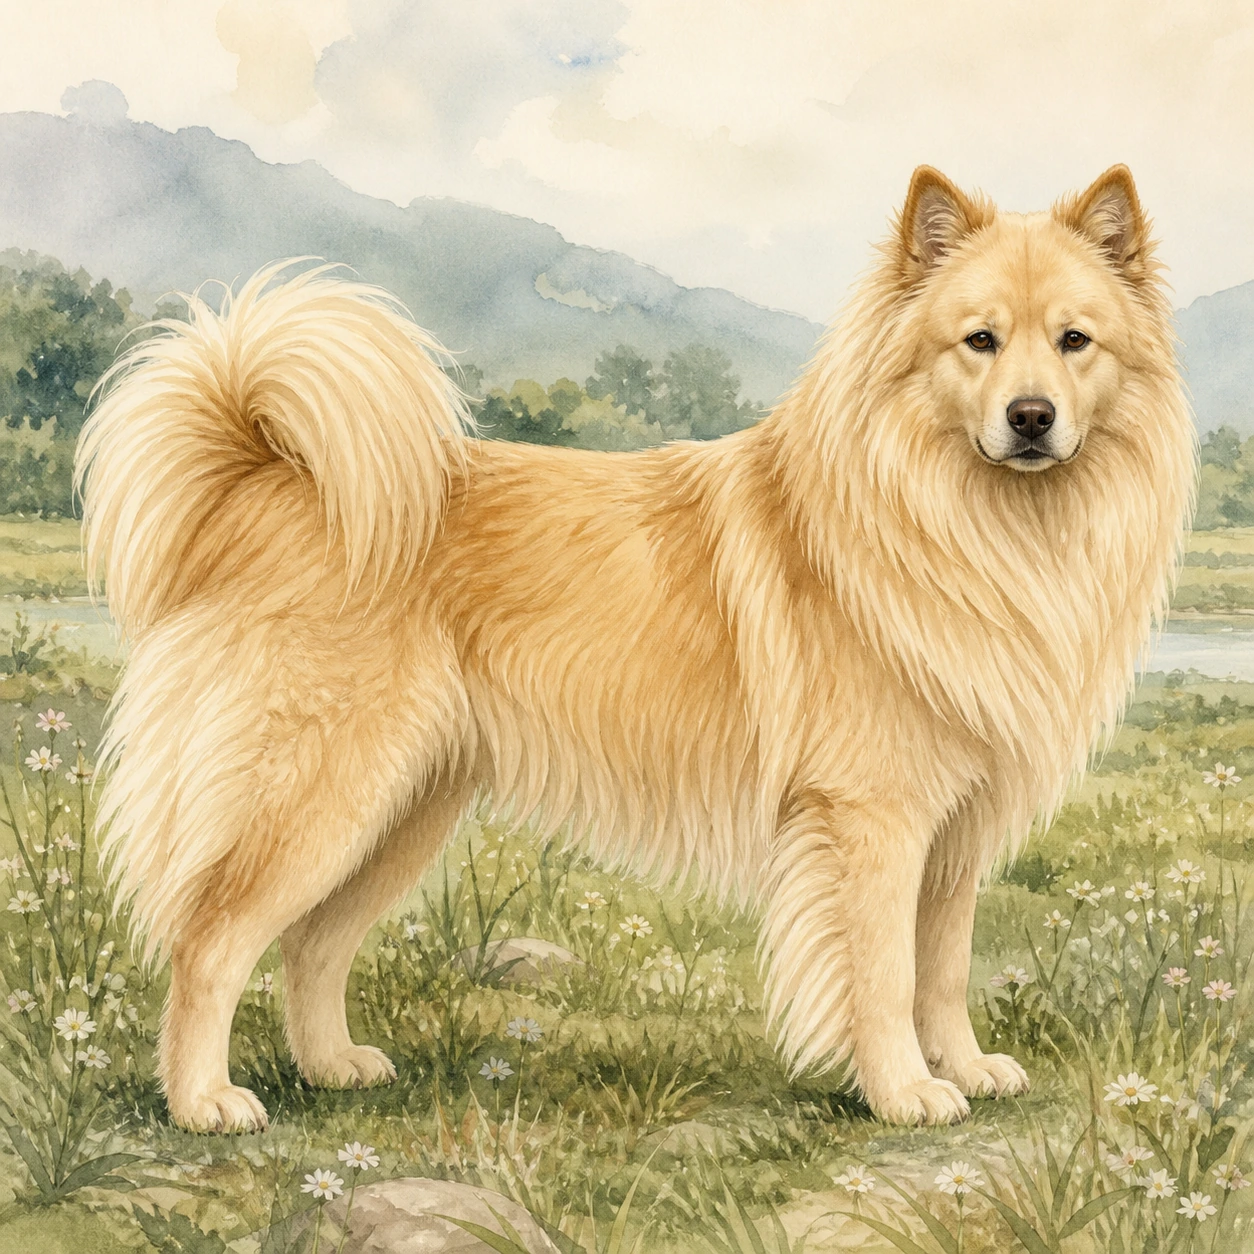
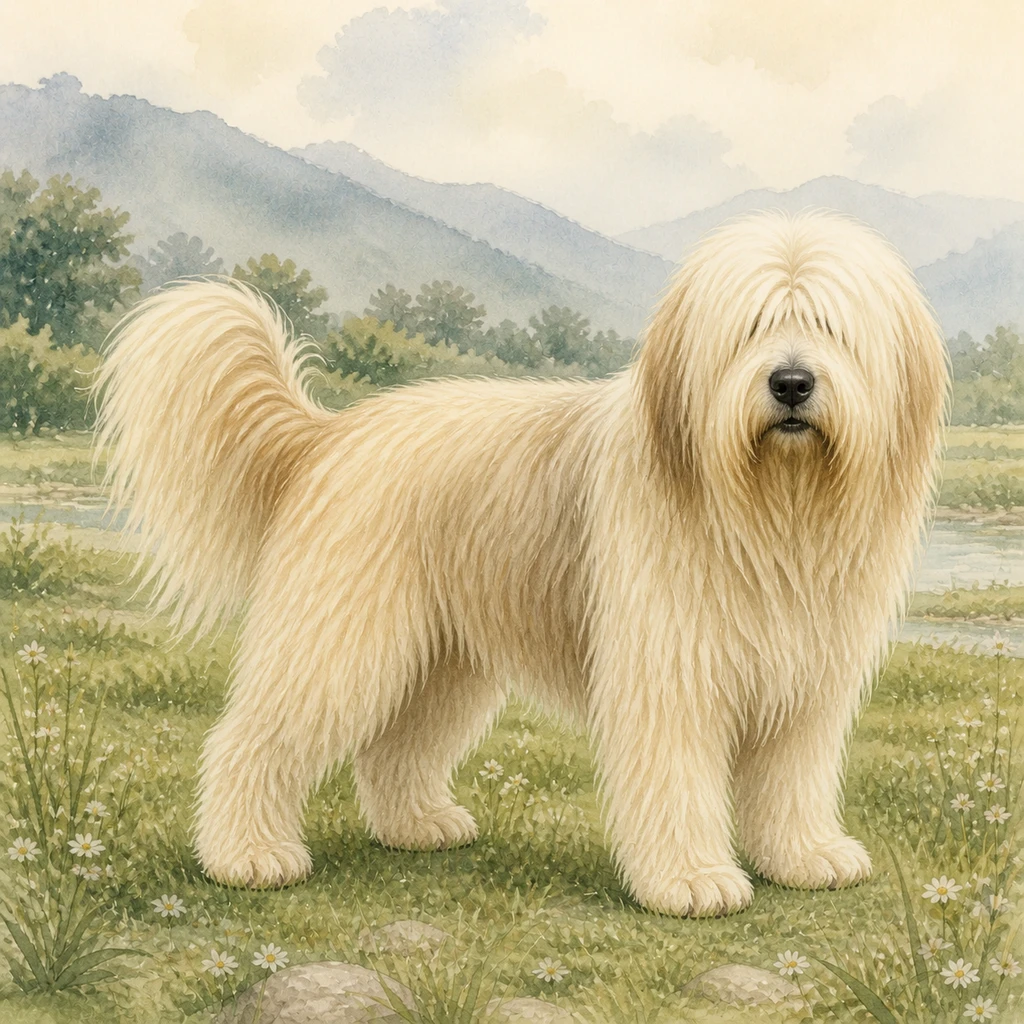
fix: correct Sapsaree visuals and document image audit

diff --git a/src/app/breeds/[slug]/page.tsx b/src/app/breeds/[slug]/page.tsx
@@ -84,7 +84,7 @@ export default async function BreedDetail({ params }: PageProps) {
           </div>
         </section>
 
-        <aside className={styles.appearanceNote}><strong>대표 형태 살펴보기</strong><span>{breed.identity.size} · {breed.identity.lineage}</span><small>외형 자료: 검수된 일러스트 참고</small></aside>
+        <aside className={styles.appearanceNote}><strong>대표 형태 살펴보기</strong><span>{breed.identity.size} · {breed.identity.lineage}</span><small>외형 자료: 편집 일러스트 참고</small></aside>
 
         <article className={styles.content}>
           <section className={`${styles.history} ${breed.historyVisual ? styles.historyWithVisual : ""}`} aria-labelledby="history-title">

diff --git a/docs/breed-visual-audit.md b/docs/breed-visual-audit.md
@@ -1,0 +1,84 @@
+# 견종 외형 일러스트 점검 기록
+
+> 최초 점검: 2026-08-11
+>
+> 대상: 도감에 노출되는 카드 일러스트 368종, 그리고 교체 후보의 역사 일러스트
+>
+> 목적: 파일 무결성 검사와 실제 견종 외형 검수를 구분하고, 교체 우선순위를 지속해서 기록한다.
+
+## 이 문서가 보장하는 범위
+
+- 카드 자산 368종을 한 번에 비교할 수 있는 접촉 시트로 1차 시각 점검했다. 일반 카드 361개와 별도 앞면 카드 7개를 모두 포함했다.
+- 외형 차이가 큰 후보는 원본 해상도로 다시 보고, FCI·AKC·국가 기관·학술 자료처럼 출처가 분명한 자료와 대조했다.
+- 삽살개와 아래의 `교체 필요` 항목은 카드뿐 아니라 역사 장면에서 같은 잘못된 형태가 반복되는지도 확인했다.
+- 이 점검은 전문 심사위원의 개별 견종 컨포메이션 심사가 아니다. 1차 점검에서 표시되지 않은 그림도 아직 `외형 승인 완료`로 간주하지 않는다.
+- 기존 테스트가 확인하는 것은 경로, WebP 형식, 크기, 중복 여부다. 실제 귀·머리·체형·피모·꼬리·모색의 정확성은 이 기록의 별도 검수 절차를 따른다.
+
+## 상태 기준
+
+| 상태 | 의미 |
+|---|---|
+| 교체 완료 | 출처를 다시 확인하고 카드·역사 자산을 새 그림으로 교체함 |
+| 교체 필요 | 현재 그림과 공식 외형 설명 사이에 큰 충돌이 확인됨 |
+| 집중 재확인 | 잘못됐다고 단정할 단계는 아니지만 대표 특징이 약하거나 혼동 가능성이 큼 |
+| 1차 점검 | 큰 오류는 즉시 발견되지 않았지만 개별 출처 검증은 아직 완료되지 않음 |
+
+## 교체 완료
+
+### 삽살개 (`sapsaree`)
+
+기존 그림은 눈이 드러난 짧은 얼굴털, 뾰족하게 선 귀, 스피츠형 꼬리와 실루엣 때문에 삽살개보다 진돗개 계열 장모 변형처럼 보였다. 새 그림은 아래 특징을 우선했다.
+
+- 눈을 대부분 덮는 풍성하고 긴 장모
+- 털에 가려지는 늘어진 귀
+- 중형의 단단하고 약간 긴 몸, 넓은 머리와 큰 발
+- 짧은 털의 스피츠형으로 오해되지 않는 꼬리와 전체 실루엣
+
+교체 자산:
+
+- 카드: `public/illustrations/v2/sapsaree-card.webp`
+- 역사: `public/illustrations/v3/sapsaree-history.webp`
+
+참고 자료:
+
+- [국가유산청 국가유산포털 — 경산의 삽살개](https://www.heritage.go.kr/heri/cul/culSelectDetail.do?VdkVgwKey=16%2C03680000%2C37&pageNo=1_1_1_1)
+- [Korea.net — Korea's shaggy-haired Sapsaree dogs](https://www.korea.net/NewsFocus/Culture/view?articleId=142199)
+- [BMC Genetics/PMC — Genetic diversity and population structure of the Sapsaree](https://pmc.ncbi.nlm.nih.gov/articles/PMC6683530/)
+
+재현 가능한 생성 프롬프트는 [`image-prompts-sapsaree.md`](image-prompts-sapsaree.md)에 기록했다.
+
+## 교체 필요
+
+| 견종 | 현재 그림에서 확인한 큰 차이 | 우선 범위 | 비교 근거 |
+|---|---|---|---|
+| 아리에주아 (`ariegeois`) | 긴 털의 목양견 또는 흰 스피츠처럼 보인다. 실제 표준은 짧고 고운 털, 길게 늘어진 귀, 흰 바탕과 검은 무늬를 지닌 후각 하운드다. | 카드·역사 | [FCI 표준 20](https://www.fci.be/Nomenclature/Standards/020g06-en.pdf) |
+| 빌리 (`billy`) | 뾰족한 귀와 말린 꼬리의 흰 스피츠로 표현됐다. 실제 표준은 납작하게 늘어진 귀와 짧은 털을 지닌 대형 하운드다. | 카드·역사 | [FCI 표준 25](https://www.fci.be/Nomenclature/Standards/025g06-en.pdf) |
+| 둔커 (`dunker`) | 크림색 리트리버 또는 흰 스피츠에 가깝다. 실제 표준은 늘어진 귀, 짧고 단단한 털, 특징적인 흑·황갈 또는 블루멀 계열 무늬를 지닌 후각 하운드다. | 카드·역사 | [FCI 표준 203](https://www.fci.be/Nomenclature/Standards/203g06-en.pdf) |
+| 아이디 (`aidi`) | 흰 스피츠의 선 귀와 단단히 말린 꼬리로 표현됐다. 표준은 반쯤 늘어진 귀와 길고 풍성한 꼬리를 설명하며, 영구적인 선 귀와 등에 단단히 말린 꼬리를 중대한 오류로 본다. | 카드·역사 | [FCI 표준 247](https://www.fci.be/Nomenclature/Standards/247g02-en.pdf) |
+| 에스트렐라 마운틴 도그 (`estrela-mountain-dog`) | 흰색이 넓게 퍼진 전형적 가축보호견으로 그려져 고유 모색과 실루엣이 흐려졌다. 표준의 황색·황갈·회색 단색, 울프 그레이 또는 브린들 범위를 기준으로 다시 그려야 한다. | 카드·역사 | [FCI 표준 173](https://www.fci.be/nomenclature/Standards/173g02-en.pdf) |
+| 댄디 딘몬트 테리어 (`dandie-dinmont-terrier`) | 정사각형에 가까운 흰 소형 장모견처럼 보여, 길고 낮은 몸·큰 머리·실키한 톱노트·늘어진 귀가 드러나지 않는다. | 카드·역사 | [AKC 견종 표준](https://images.akc.org/pdf/breeds/standards/DandieDinmontTerrier.pdf) |
+| 사우스 러시안 셰퍼드 도그 (`south-russian-shepherd-dog`) | 카드의 얼굴과 몸 윤곽이 너무 또렷하고 피모가 짧아, 머리·다리·꼬리까지 덮는 거칠고 긴 셔기 코트의 핵심 인상이 약하다. | 카드 우선, 역사 재확인 | [FCI 표준 326](https://www.fci.be/nomenclature/Standards/326g01-en.pdf) |
+
+## 집중 재확인
+
+아래 항목은 현재 단계에서 `오류 확정`으로 부르지 않는다. 다음 이미지 교체 배치 전에 원본과 공식 자료를 다시 나란히 확인한다.
+
+| 견종 또는 묶음 | 다시 볼 특징 |
+|---|---|
+| 베들링턴 테리어 | 배 모양 머리, 귀 끝의 술, 굽은 등선과 시미터형 꼬리가 작은 카드에서도 충분히 읽히는지 |
+| 노르웨이안 룬데훈트 | 여분 발가락과 유연한 체형 같은 고유 특징이 단순화 때문에 사라지지 않았는지 |
+| 마렘마 앤 아브루초 셰퍼드 | 카드의 꼬리가 평상시 형태보다 지나치게 높고 단단히 말려 보이지 않는지 |
+| 페키니즈 | 넓고 납작한 얼굴, 앞부분의 체중감과 특유의 실루엣이 일반 장모 소형견으로 흐려지지 않았는지 |
+| 스카이 테리어 | 매우 길고 낮은 몸, 큰 귀와 직선으로 떨어지는 긴 피모가 충분히 구분되는지 |
+| 한국 토종견 스피츠형 묶음 | 진돗개·동경이 등 가까운 실루엣끼리 꼬리, 몸 비율, 귀와 지역적 특징이 서로 복제된 듯 보이지 않는지 |
+
+## 다음 교체 배치의 검수 절차
+
+1. 국제 표준이 있는 견종은 FCI 또는 국가 켄넬클럽 표준을 먼저 읽는다.
+2. 국가 보존 토착견과 랜드레이스는 국가 기관·보존 기관·동료 심사 논문을 우선하며 FCI형 단일 외모를 억지로 적용하지 않는다.
+3. 성견 참고 자료에서 머리와 귀, 몸 비율, 피모, 꼬리, 허용 모색을 각각 기록한다.
+4. 카드와 역사 그림을 한 묶음으로 비교해 같은 잘못된 형태가 반복되지 않게 한다.
+5. 전체 몸, 네 발, 귀, 꼬리가 카드 크기에서도 읽히는지 확인한다.
+6. 검수 날짜와 출처, 변경 파일, 사용 프롬프트를 이 문서와 개별 프롬프트 기록에 남긴다.
+
+화면에서는 개별 외형 승인이 끝나지 않은 그림을 `검수된 일러스트`라고 부르지 않고 `편집 일러스트`라고 표시한다.

diff --git a/docs/image-prompts-sapsaree.md b/docs/image-prompts-sapsaree.md
@@ -1,0 +1,46 @@
+# 삽살개 이미지 재제작 기록
+
+> 제작일: 2026-08-11
+>
+> 생성 방식: OpenAI 내장 이미지 생성 도구로 참고 이미지를 사용해 새 래스터 일러스트 생성
+>
+> 최종 형식: 1024 × 1024 WebP
+
+## 결과 파일
+
+- 카드: `public/illustrations/v2/sapsaree-card.webp`
+- 역사 장면: `public/illustrations/v3/sapsaree-history.webp`
+- 생성 원본 카드 PNG: `C:\Users\ss\.codex\generated_images\019fe6f0-dfd7-72e3-888c-08ac4313c166\exec-0a351b45-b55f-49fb-a9e4-56c8d727a353.png`
+- 생성 원본 역사 PNG: `C:\Users\ss\.codex\generated_images\019fe6f0-dfd7-72e3-888c-08ac4313c166\exec-12827ab3-eed1-4a1d-b2bb-7e94440629ff.png`
+
+형태 판단에는 사용자가 제공한 실제 삽살개 검색 화면, [국가유산포털](https://www.heritage.go.kr/heri/cul/culSelectDetail.do?VdkVgwKey=16%2C03680000%2C37&pageNo=1_1_1_1), [Korea.net](https://www.korea.net/NewsFocus/Culture/view?articleId=142199), [BMC Genetics 논문](https://pmc.ncbi.nlm.nih.gov/articles/PMC6683530/)을 참고했다. 기존 Dog Atlas 그림은 화풍과 구도만 참고하고 잘못된 스피츠형 해부는 유지하지 않았다.
+
+## 카드 프롬프트
+
+```text
+Use case: stylized-concept
+Asset type: square 1:1 breed-atlas card illustration
+Input images: Image 1 is morphology reference only for the real long-haired Korean Sapsaree; Image 2 is style, palette, paper texture, and full-body card-composition reference only. Do not preserve Image 2's incorrect dog anatomy.
+Primary request: Create a new, breed-faithful adult long-haired Sapsaree (삽살개) illustration in the existing Dog Atlas watercolor-and-pencil language.
+Scene/backdrop: quiet low foothills and meadow suggestive of Gyeongsan, Korea, painted very softly on warm ivory watercolor paper so the dog stays dominant.
+Subject: one cream-to-light-yellow adult Sapsaree, medium and sturdy, slightly rectangular body, substantial broad head and muzzle, large sturdy paws, dense abundant shaggy double coat with long straight-to-gently-wavy furnishings. Long facial fringe must naturally cover most of both eyes. The ears are medium pendant/drop ears and mostly hidden by the coat. Black nose. Long feathered tail visible in a natural relaxed upward curve, not a tight spitz ring.
+Composition/framing: complete standing adult dog in natural three-quarter side view, head turned toward the viewer, all four paws and the entire tail visible with generous margin; realistic adult proportions, dog fills about 72–78% of the square.
+Style/medium: refined natural-history watercolor with delicate colored-pencil detail, calm muted sage, cream, ochre, and warm-gray palette, same visual family as Image 2, not photorealistic and not cartoon.
+Constraints: accurate Sapsaree silhouette is more important than cuteness; no text, logo, border, or watermark; no cropped ears, paws, or tail.
+Avoid: upright pointed ears, exposed round eyes, foxlike wedge head, short coat, tight spitz tail, Jindo/Akita/Samoyed/Golden Retriever appearance, oversized mastiff proportions, show-groomed topknot, puppy proportions, extra limbs or toes.
+```
+
+## 역사 장면 프롬프트
+
+```text
+Use case: historical-scene
+Asset type: square 1:1 Dog Atlas breed-detail history illustration
+Input images: Image 1 is real Sapsaree morphology reference only; Image 2 is the approved morphology and watercolor character anchor for the same cream adult Sapsaree; Image 3 is composition, Korean rural setting, paper texture, and historical-atlas style reference only. Replace Image 3's incorrect spitz-like dog completely.
+Primary request: Paint one breed-faithful long-haired Korean Sapsaree standing watchfully but calmly in a traditional rural courtyard in Gyeongsan, Korea, conveying its historical life beside people and homes without dramatization.
+Scene/backdrop: modest Korean hanok courtyard with stone wall, earthen ground, wooden gate and distant low mountains; historically neutral, no modern objects, no people required.
+Subject: the exact same type of cream-to-light-yellow adult Sapsaree established in Image 2: medium sturdy slightly rectangular body, substantial head and muzzle, large paws, abundant shaggy double coat, long facial fringe covering most of both eyes, pendant/drop ears hidden in the coat, black nose, long feathered tail in a relaxed upward curve. It must remain recognizable even at smaller scale.
+Composition/framing: full dog in clear three-quarter side view in the lower-middle foreground; all four paws and entire tail visible; enough environment to explain the village-watch context, but dog remains the primary focal point.
+Style/medium: refined subdued watercolor and colored-pencil historical natural-history illustration on warm textured paper; muted earth, gray, sage, and cream palette matching Image 3.
+Constraints: breed morphology from Image 2 must remain consistent; calm observational scene; no text, logo, border, watermark, crop, violence, supernatural spectacle, or decorative costume.
+Avoid: upright pointed ears, exposed round eyes, foxlike wedge head, short coat, tight spitz tail, Jindo/Akita/Samoyed appearance, generic livestock guardian, modern buildings, extra dogs, people, extra limbs.
+```

diff --git a/docs/project-status.md b/docs/project-status.md
@@ -24,7 +24,7 @@ Dog Atlas(살아 있는 견종도감)는 강아지를 고려하는 사람이 외
 
 ### 홈 `/`
 
-- 날짜에 따라 시작 견종이 달라지는 수동 ‘오늘의 강아지’ 캐러셀
+- 항상 첫 견종에서 시작하고 2초마다 교차 페이드하며, 버튼·키보드·스와이프로도 조작할 수 있는 ‘오늘의 강아지’ 캐러셀
 - 368종의 한글명·영문명·등록 별칭 검색
 - 3개 상위 관점과 빠른 탐색 칩으로 견종을 탐색하는 카테고리 익스플로러, 이미지가 포함된 대표 견종 결과 카드
 - 전체 견종 카드 탐색
@@ -72,7 +72,7 @@ Dog Atlas(살아 있는 견종도감)는 강아지를 고려하는 사람이 외
 
 - 분위기: 자연사 도감, 종이 질감, 현대적 반려동물 서비스의 중간 지점
 - 색상: 아이보리 캔버스, 흰 패널, 짙은 잉크색 텍스트, 세이지·모스 계열 강조색
-- 이미지: 성견의 견종별 비율을 살린 전신 카드 삽화와 원래 역할·지역을 설명하는 역사 장면
+- 이미지: 성견의 견종별 비율을 목표로 한 전신 카드 삽화와 원래 역할·지역을 설명하는 역사 장면. 생성·편집 일러스트의 파일 무결성과 실제 외형 승인은 별도 검수한다.
 - 표현: 귀엽지만 유아적이지 않고, 장식보다 견종 실루엣과 정보 위계를 우선
 - 레이아웃: 일반 콘텐츠 최대 1200px, 비교 콘텐츠 최대 1440px, 모바일 좌우 여백 16px 기준
 - 접근성: 키보드 조작, 명시적 포커스, 충분한 대비, 최소 터치 영역, `prefers-reduced-motion`, 이미지 없이도 남는 핵심 정보
@@ -116,6 +116,7 @@ Dog Atlas(살아 있는 견종도감)는 강아지를 고려하는 사람이 외
 | FCI provisional | 17 | 같은 테스트의 `registryStatus` |
 | non-FCI | 7 | 같은 테스트의 `registryStatus` |
 | 카드·역사 이미지 | 상세 368종 모두 로컬 경로 존재 | `data.test.ts`, `visual-assets.test.ts` |
+| 외형 정밀 검수 | 삽살개 교체 완료, 7종 교체 필요, 그 외는 미승인 1차 점검 상태 | [`breed-visual-audit.md`](breed-visual-audit.md) |
 
 모든 상세 항목의 현재 `contentStatus`는 `mvp-editorial-draft`다. 이는 스키마 검증과 편집·출처 작업이 존재한다는 뜻이지, 수의학 또는 행동 전문가 검수를 완료했다는 뜻이 아니다.
 
@@ -124,6 +125,7 @@ Dog Atlas(살아 있는 견종도감)는 강아지를 고려하는 사람이 외
 - [`mvp-scope.md`](mvp-scope.md)는 100종까지의 확장 기록을 담고 있으나 구현은 368종까지 진행됐다.
 - [`catalog-20-proposal.md`](catalog-20-proposal.md)와 초기 디자인 명세의 ‘20종’ 표현은 역사적 계획이다.
 - 이미지 프롬프트 배치 A·B 문서는 초기 15종의 제작 기록이며 전체 자산 제작 이력을 대표하지 않는다.
+- 이미지 테스트 통과는 실제 견종 외형의 정확성을 뜻하지 않는다. 368종 카드는 1차 시각 점검했으며, 삽살개는 교체 완료, 아리에주아·빌리·둔커·아이디·에스트렐라 마운틴 도그·댄디 딘몬트 테리어·사우스 러시안 셰퍼드 도그는 공식 표준을 기준으로 교체가 필요하다. 나머지도 개별 승인 완료로 표시하지 않는다. 상세 상태는 [`breed-visual-audit.md`](breed-visual-audit.md)를 따른다.
 - 제품명은 코드 메타데이터에서 ‘살아 있는 견종도감’, 저장소와 문서에서는 ‘Dog Atlas’를 함께 사용한다.
 - 아메리칸 핏불 테리어와 아메리칸 불리는 FCI가 아니라 UKC 등록 기준을 명시해 상세를 제공한다.
 - 몽골 방카르처럼 공식 국제 견종 목록 밖의 토착 랜드레이스는 지역 정체성, 지속된 역할, 기관 또는 학술 근거, 다른 견종과의 명칭 경계를 확인하는 별도 트랙으로 다룬다.
@@ -142,11 +144,12 @@ npm run build
 
 UI 변경은 추가로 390px, 768px, 1440px, 1920px 폭에서 확인한다. 비교 화면은 최대 1440px까지 확장할 수 있으며, 필수 정보는 모션이나 이미지가 없어도 접근 가능해야 한다.
 
-최근 검증 결과(2026-08-10):
+최근 검증 결과(2026-08-11):
 
 - `npm run lint` 통과
 - `npm run typecheck` 통과
-- `npm test` 통과 — 24개 파일, 82개 테스트
+- `src/content/breeds/visual-assets.test.ts` 단독 통과 — 새 삽살개 자산을 포함한 368종 카드·역사 WebP 확인
+- `npm test` 전체 병렬 실행 — 24개 파일 중 23개, 82개 테스트 중 81개 통과. 기존 `ConditionExplorer` 클릭 테스트 1개가 5초 제한을 0.54초 넘겨 시간 초과했으며, 같은 파일을 단독 재실행하면 2개 테스트 모두 통과했다.
 - `npm run build` 통과 — `/discover`, 이름 유래 6개 경로와 368개 견종 상세 경로를 포함해 382개 정적 페이지 생성
 
 이 문서를 갱신할 때 실제로 실행한 검증만 결과로 기록한다.

diff --git a/docs/decisions.md b/docs/decisions.md
@@ -136,3 +136,9 @@ Start the home carousel at the first catalog breed on every visit instead of der
 # 2026-08-11 — Remove role/history exploration from discovery
 
 Remove the editorial role/history explorer from the bottom of `/discover` so the route has one clear purpose: factual condition filtering and result browsing. Remove its now-unused interactive state, curated slug groups, result cards, and styles from `CategoryExplorer`, while retaining the six home lifestyle shortcuts that link into factual filters. Historical context remains available in breed detail pages and the source-backed breed-name stories.
+
+# 2026-08-11 — Separate image integrity from breed-appearance approval
+
+Treat local file existence, WebP validity, dimensions, and uniqueness as asset-integrity checks only. They do not establish that an illustration accurately represents a breed. Do not label generated or editorial artwork as `검수된 일러스트` until its morphology has been compared breed by breed with an official standard, national conservation source, or peer-reviewed source.
+
+Review card and history images as one visual unit, recording the source, date, changed paths, and generation prompt. Replace the incorrect spitz-like Sapsaree artwork first and track the seven confirmed high-priority mismatches in `docs/breed-visual-audit.md`. Keep the rest in an unapproved first-pass state rather than claiming that the full 368-image set is accurate.

diff --git a/docs/README.md b/docs/README.md
@@ -31,10 +31,12 @@
 
 ### 이미지 제작 기록
 
+- [`breed-visual-audit.md`](breed-visual-audit.md) — 368종 카드 1차 외형 점검, 교체 완료·필요·재확인 상태
+- [`image-prompts-sapsaree.md`](image-prompts-sapsaree.md) — 삽살개 카드·역사 이미지 재제작 근거와 전체 프롬프트
 - [`image-prompts-batch-a.md`](image-prompts-batch-a.md) — 초기 확장 배치 A의 카드·역사 이미지 프롬프트와 QA 기록
 - [`image-prompts-batch-b.md`](image-prompts-batch-b.md) — 초기 확장 배치 B의 카드·역사 이미지 프롬프트와 QA 기록
 
-두 이미지 문서는 현재 전체 365종 자산 목록이 아니라 초기 제작 배치의 재현 기록이다.
+배치 A·B 문서는 현재 전체 368종 자산 목록이 아니라 초기 제작 배치의 재현 기록이다. 최신 외형 점검 상태는 `breed-visual-audit.md`를 기준으로 본다.
 
 ## 문서 유지 규칙
 
